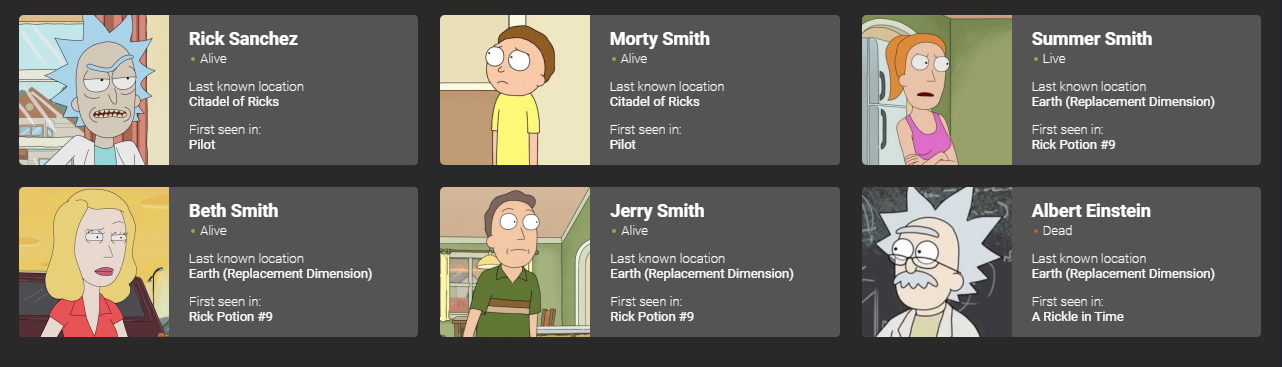
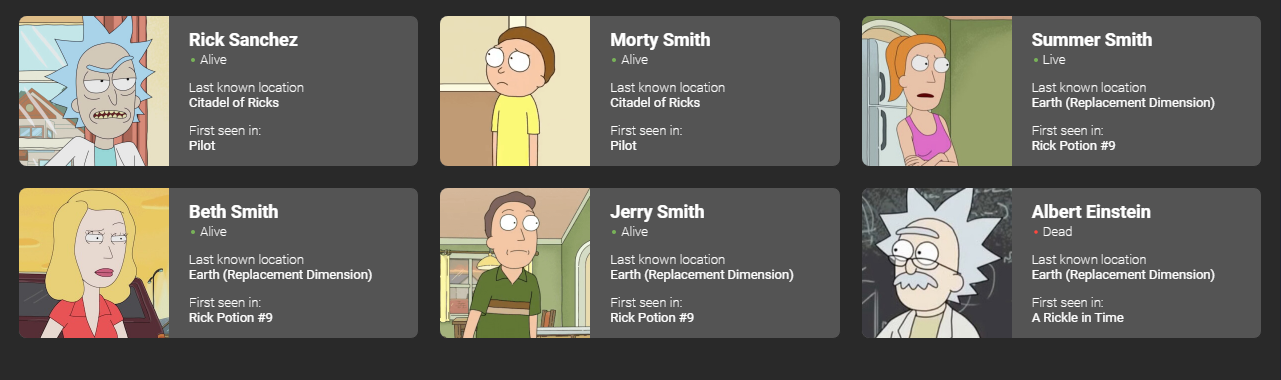
README-3

diff --git a/index.css b/index.css
@@ -31,7 +31,7 @@ section.character {
   grid-template-rows: 150px;
   margin: 10px;
   border: 1px solid rgb(41, 41, 41);
-  border-radius: 5px;
+  border-radius: 8px;
   background-color: rgba(255, 255, 255, 0.2);
   backdrop-filter: blur(5px);
 }
@@ -56,8 +56,8 @@ div.c-details-down {
 .c-img {
   width: 150px;
   height: 150px;
-  border-top-left-radius: 5px;
-  border-bottom-left-radius: 5px;
+  border-top-left-radius: 8px;
+  border-bottom-left-radius: 8px;
 }
 p.d-name {
   font-weight: bolder;

diff --git a/index.html b/index.html
@@ -15,8 +15,6 @@
   <title>Markup II - Morty Grid</title>
 </head>
 <body>
-  <header>
-  </header>
   <main class="container">
     <section class="character c1">
       <img class="c-img" src="./img/1.jpeg" alt="rick">
@@ -126,9 +124,6 @@
         </div>
       </div>
     </section>
-
   </main>
-
-
 </body>
 </html>

diff --git a/README.md b/README.md
@@ -5,4 +5,4 @@
 * Hello again!
 * Enjoy the page :)
 
-![Captura_screen](https://user-images.githubusercontent.com/113383293/192630107-92b3fede-d863-405b-afc1-33e3caae0360.PNG)
+![Captura_screen](https://user-images.githubusercontent.com/113383293/192632456-99e02eda-c1dc-4426-8f2a-aa8887b39fe7.PNG)
